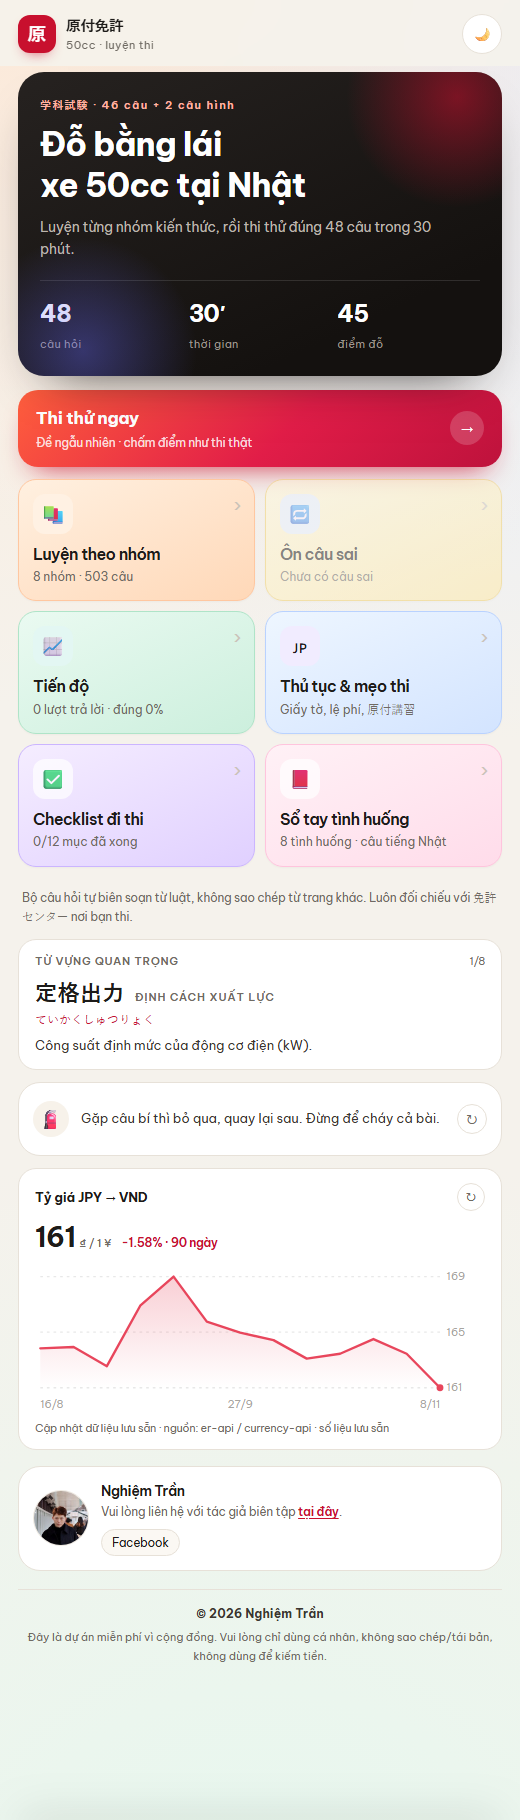
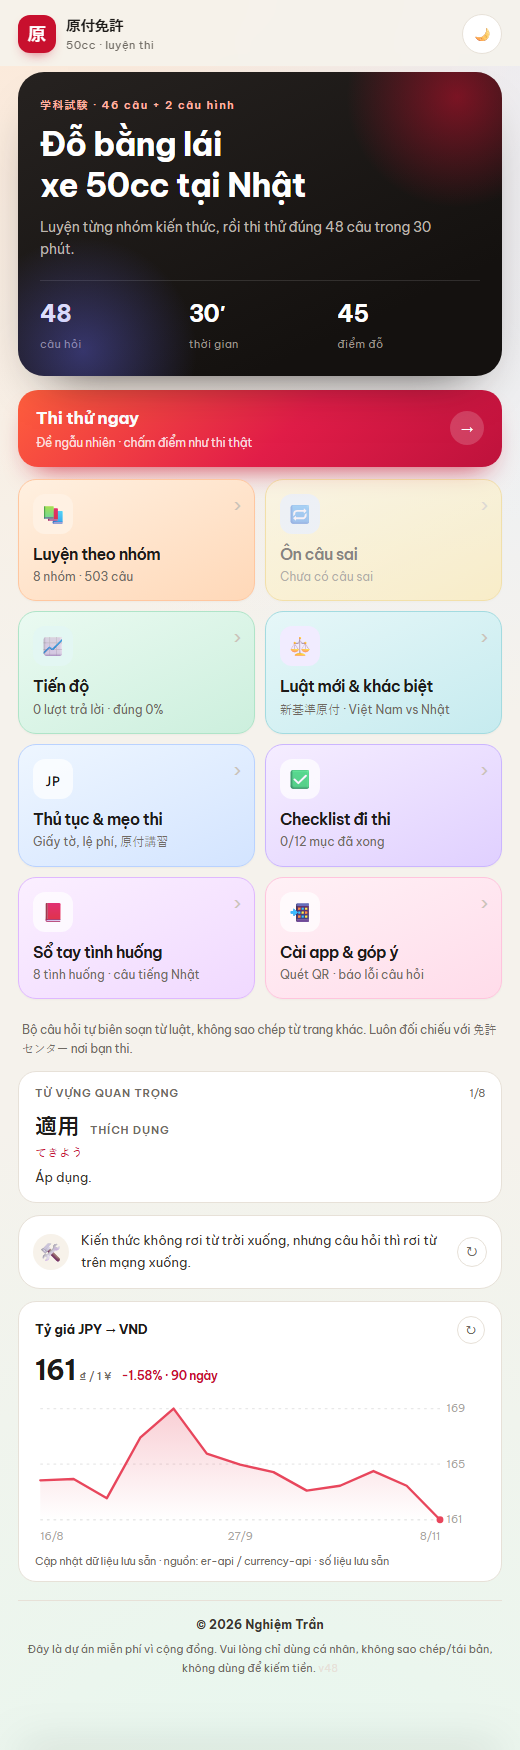
Add files via upload

diff --git a/js/app.js b/js/app.js
@@ -13,7 +13,7 @@
   var EXAM_TEXT = 46;
   var EXAM_ILL = 2;
   var PASS = 45;
-  var APP_VER = '47';
+  var APP_VER = '48';
 
   var qById = {};
   Q.forEach(function (q) { qById[q.id] = q; });
@@ -792,7 +792,6 @@
         vocabBlock() +
         quoteBlock() +
         fxCard() +
-        creditBlock() +
         '<p class="terms"><b>© 2026 Nghiệm Trần</b>' +
           'Đây là dự án miễn phí vì cộng đồng. Vui lòng chỉ dùng cá nhân, ' +
           'không sao chép/tái bản, không dùng để kiếm tiền. ' +
@@ -1349,8 +1348,8 @@
           '<p>Thấy câu nào sai nghĩa, giải thích khó hiểu, hay muốn góp thêm câu hỏi? ' +
             'Nhắn tin cho tác giả — mọi báo lỗi đều được xem lại và sửa trong bản cập nhật.</p>' +
           '<p class="muted">Khi báo lỗi, gửi kèm mã câu (ví dụ <b>s23</b>) hoặc chụp màn hình để sửa nhanh hơn.</p>' +
-          '<a class="btn btn-ghost" href="https://www.facebook.com/Gimichan92" target="_blank" rel="noopener noreferrer" data-fb="1">Nhắn tin qua Facebook</a>' +
         '</section>' +
+        creditBlock() +
       '</main>';
   }
 

diff --git a/sw.js b/sw.js
@@ -1,6 +1,6 @@
 /* Service worker — cho phép dùng offline sau lần mở đầu tiên.
    Đổi CACHE khi sửa nội dung để buộc tải bản mới. */
-const CACHE = 'gentsuki-v47';
+const CACHE = 'gentsuki-v48';
 
 const ASSETS = [
   './',
